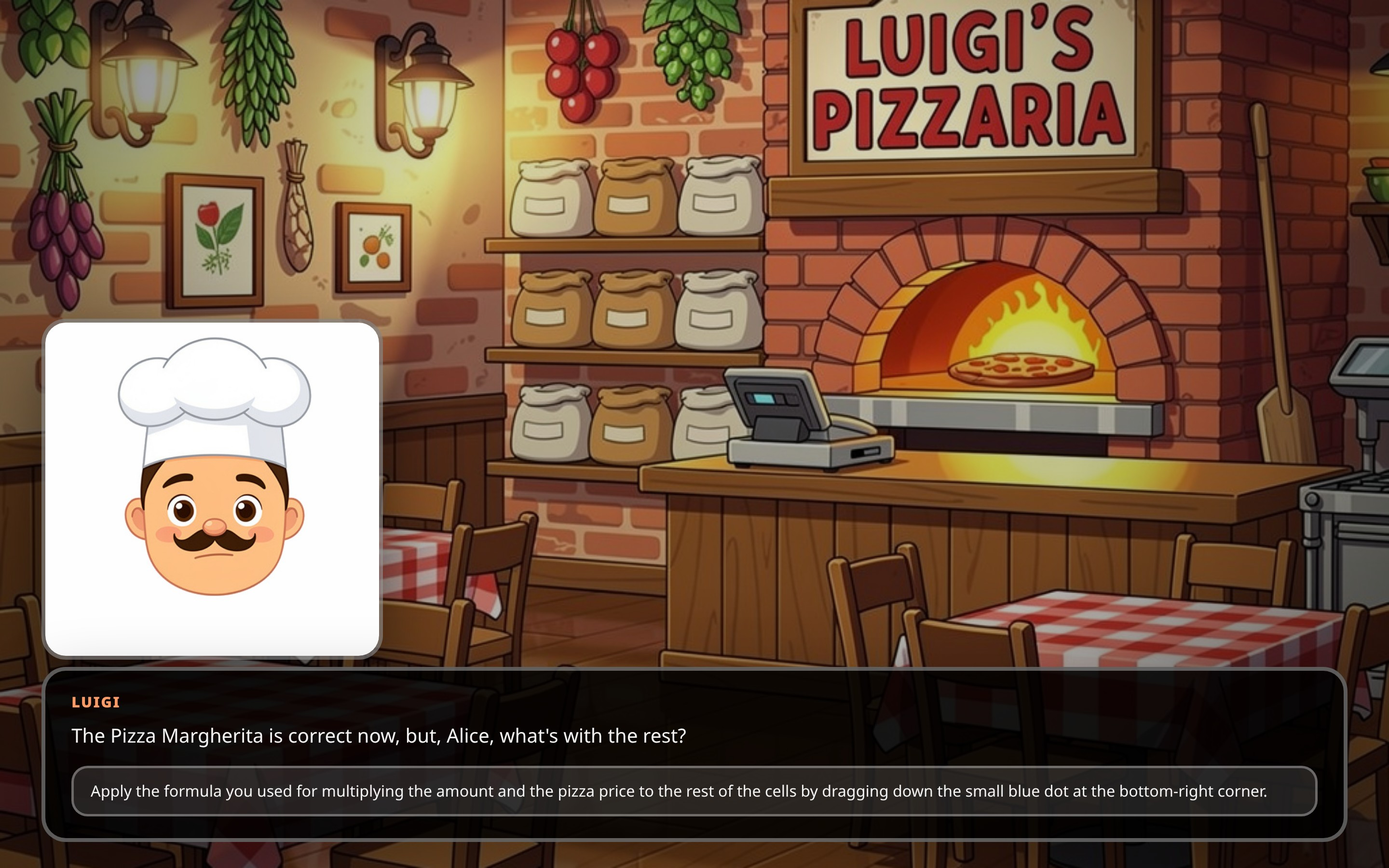
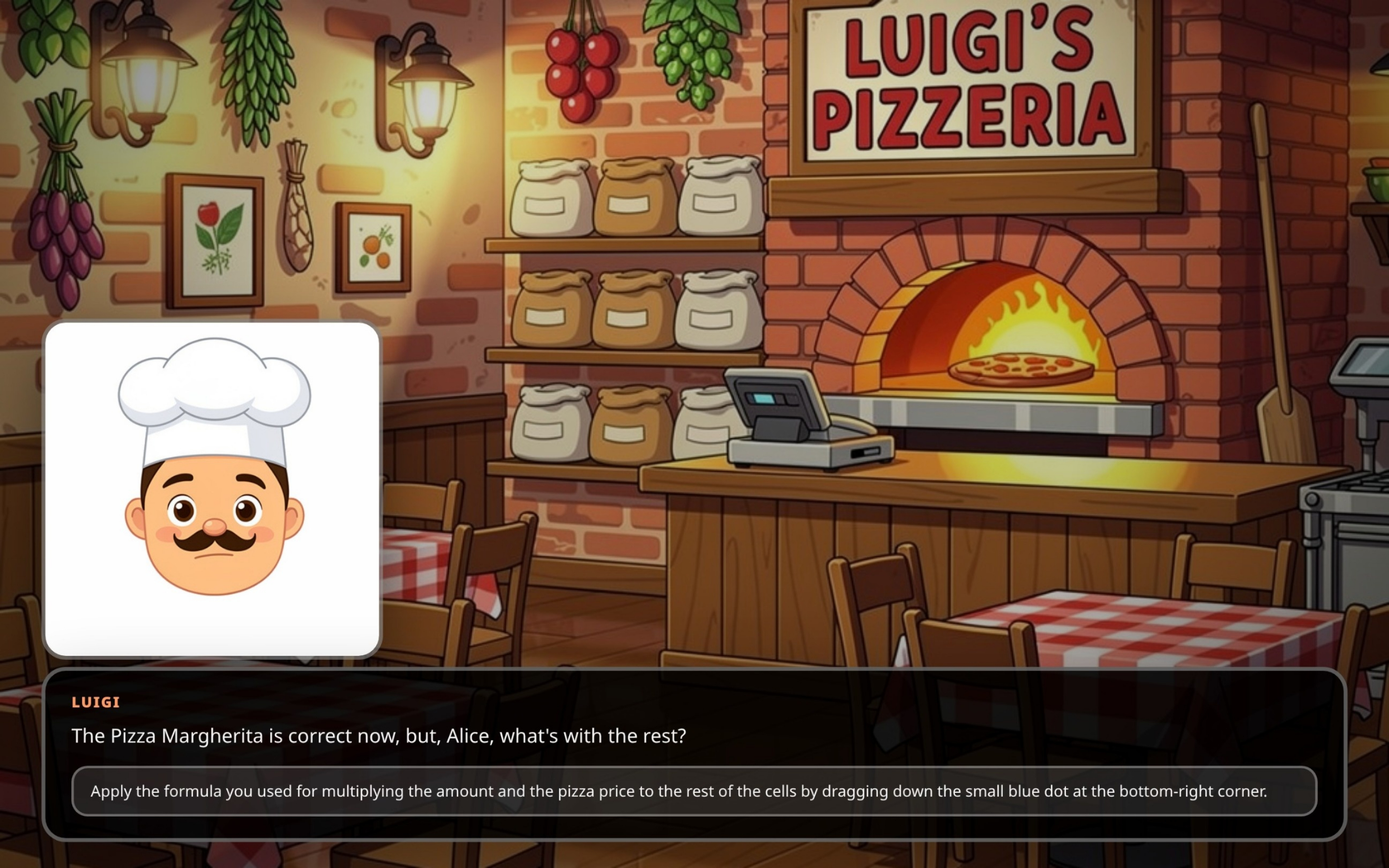
Typo fix

diff --git a/cscape_spreadsheet/index.html b/cscape_spreadsheet/index.html
@@ -111,7 +111,7 @@
 					blockNavigationUntilReady: true,
 
 					defaultLayout: "dialogue",
-					defaultBackground: "pizzaria.jpg",
+					defaultBackground: "pizzeria.jpg",
 					defaultTextMode: "type",
 					typeSpeed: 24,
 					soundVolume: 0.82,
